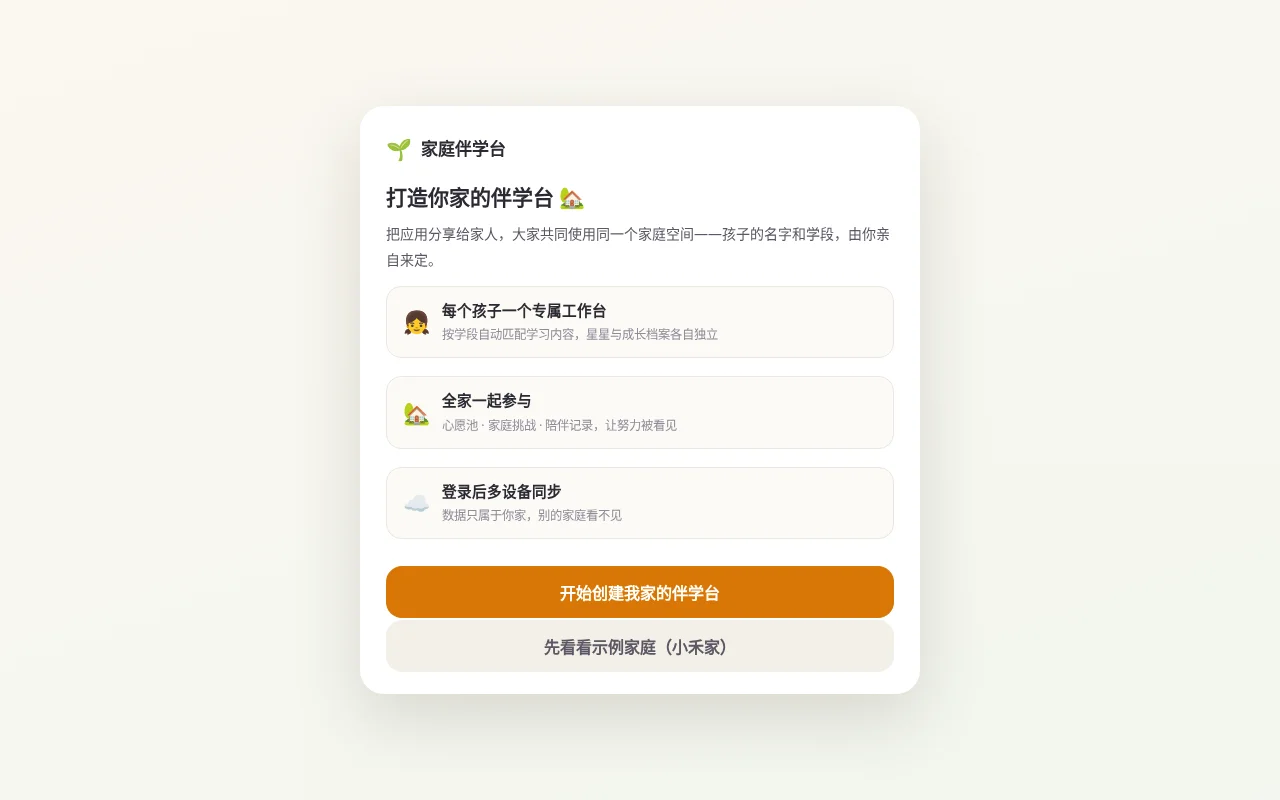
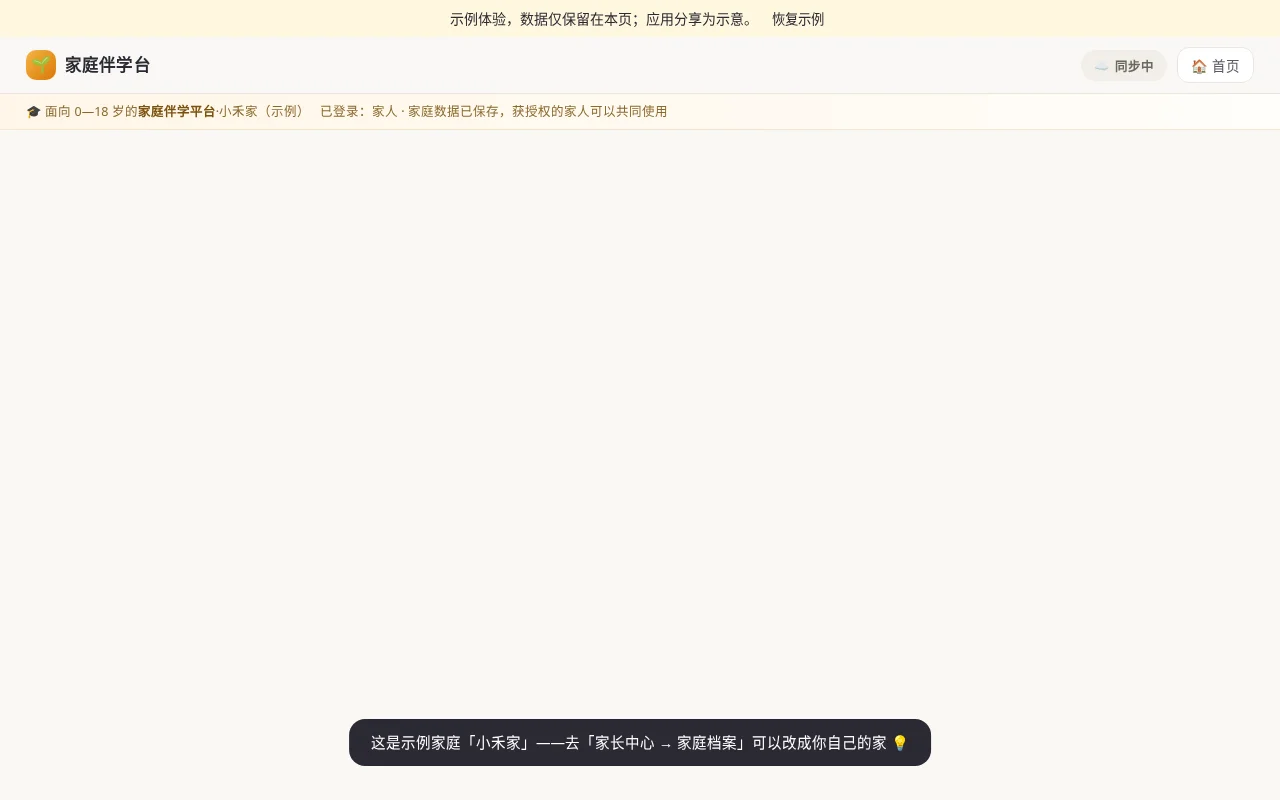
Improve interactive template preview

diff --git a/wb1024-c437-0024a23f/showcase/preview.html b/wb1024-c437-0024a23f/showcase/preview.html
@@ -531,7 +531,8 @@
   @media print{.topbar,.ribbon{display:none}}
 
 #authScreen { display:none !important; }
-</style></head><body>
+
+.demo-banner{position:sticky;top:0;z-index:9999;background:#fff8df;padding:8px;text-align:center;font:14px sans-serif}.demo-banner button{margin-left:8px}</style></head><body><div class="demo-banner"><span id="demo-note">示例体验，数据仅保留在本页；应用分享为示意。</span><button id="demo-reset">恢复示例</button></div>
 <!-- ============================================================ -->
 <!-- 第一屏 · 欢迎 / 登录                                          -->
 <!-- ============================================================ -->
@@ -4872,4 +4873,8 @@ for (const kind of ['click','input','change']) document.addEventListener(kind, e
  try { const row = await window.familyStore.read(); revision = row.revision; DB = deepMerge(DEFAULTS, row.state || {}); migrateDB(DB, !!row.state); hideAuth(); paintSyncChip(); updateRibbon(); renderAll(); maybeOnboard(); }
  catch (e) { console.error(e); document.body.innerHTML = '<div style="padding:3rem;font-family:sans-serif">家庭数据暂时无法读取，请检查网络后刷新页面。</div>'; }
 })();
+
+setTimeout(() => { obDemo(); }, 0);
+document.getElementById('demo-reset').addEventListener('click', () => { memory=null; ver=0; revision=0; saving=false; dirty=false; conflicted=false; DB=clone(DEFAULTS); obDemo(); goHome(); });
+document.addEventListener('click', e => { const el=e.target.closest('[data-click]'); if (!el) return; if (/^(exportData|importData|exportLongImage|printReport|resetData|reobReset)\(/.test(el.getAttribute('data-click'))) {e.stopImmediatePropagation(); document.getElementById('demo-note').textContent='示例不执行文件导入导出或重置，安装后可使用。';} }, true);
 </script></body></html>
